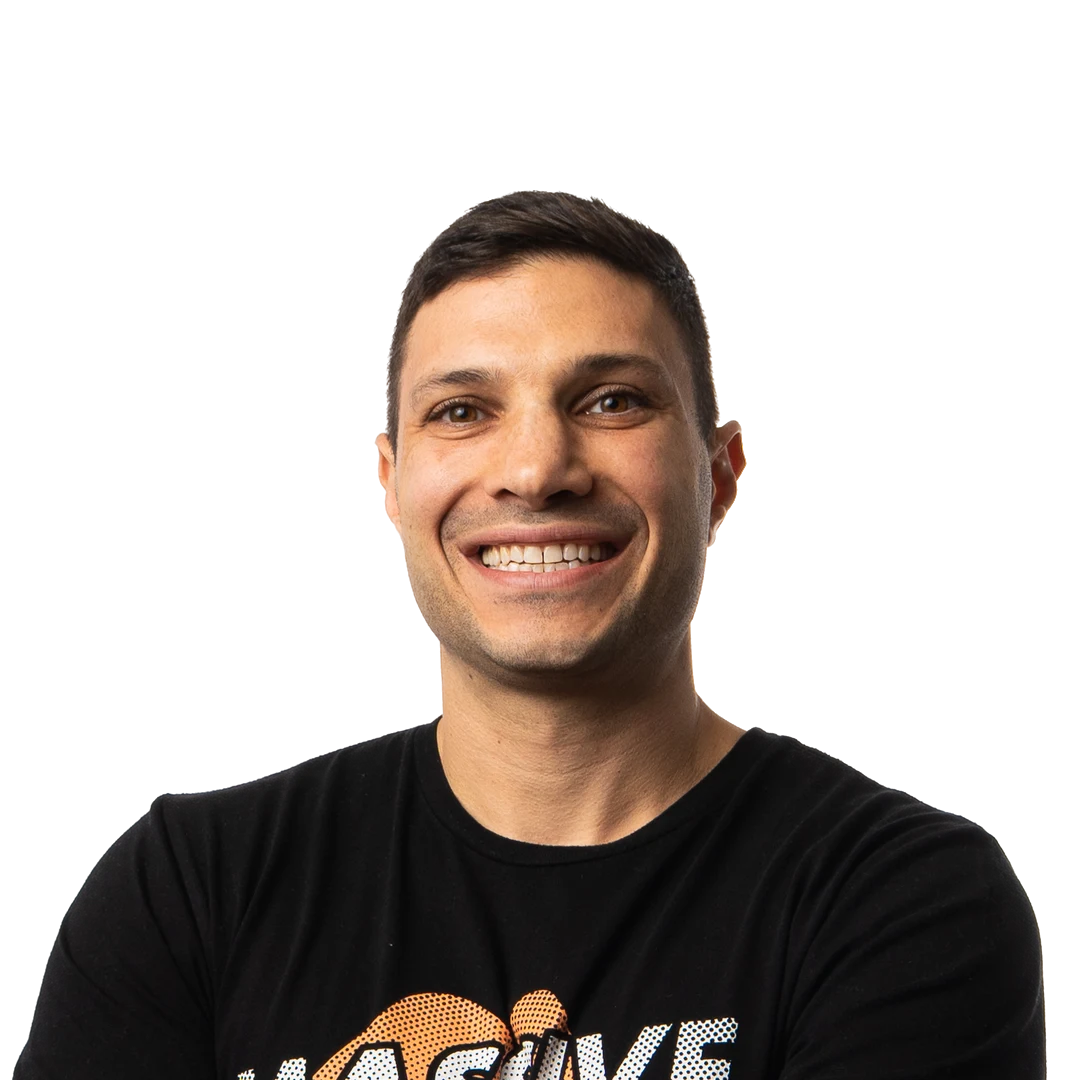
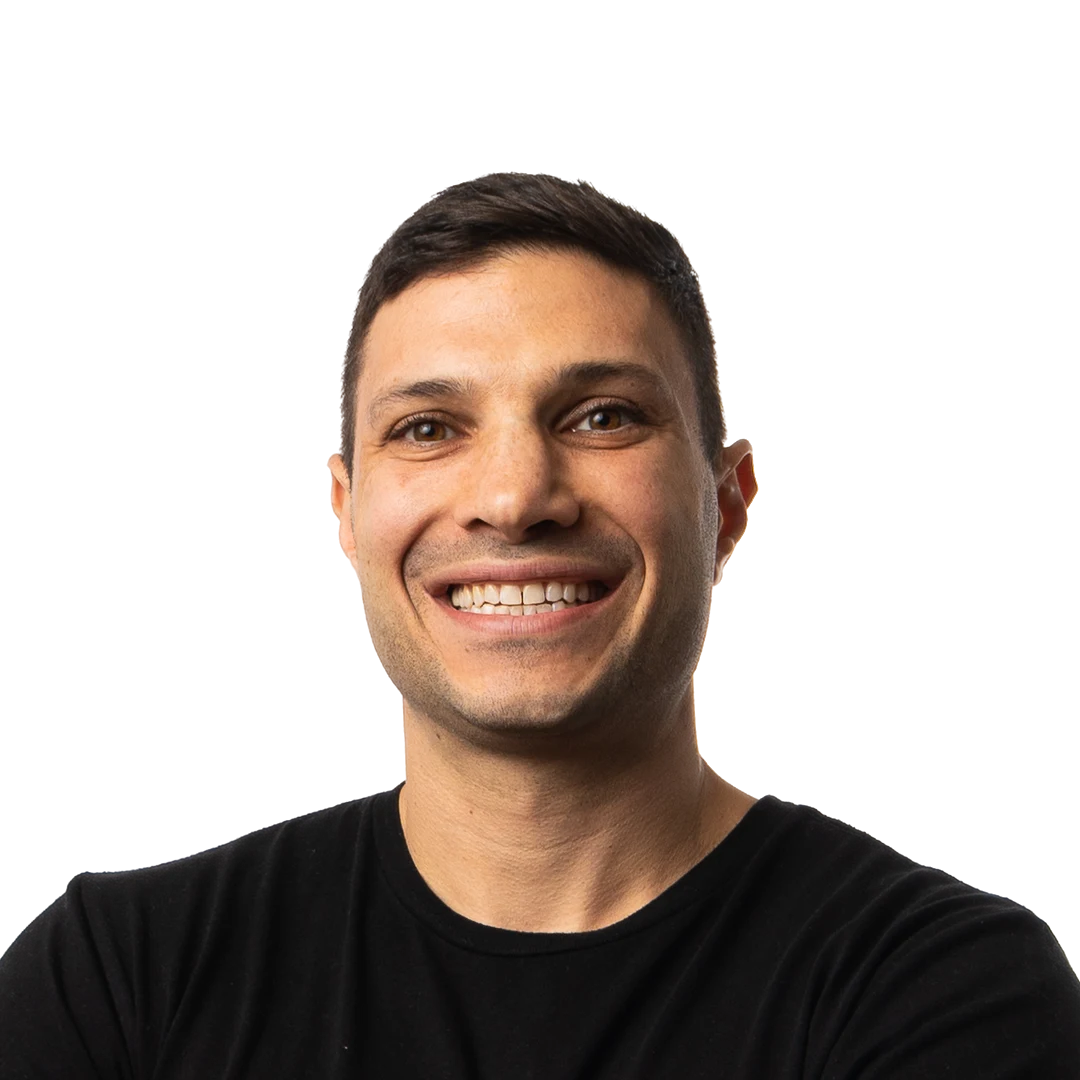
feat(team-photo): new photos of Jamie and Dima, Jason Grad framed larger
Jamie: a real studio photo (B__T0413, seated in the tee), the better
photo in originals/profiles/, in place of the generated pick. Framed 7%
to the right (NUDGE): the head tilts and the hair falls to the left.

Dima: a front-on photo, too small and cut too close to the collar for
the tab's framing, so it became the new face reference instead
(originals/team/dima-tymoshchenko.jpg; the first one is now -old.png)
and take 2 of the studio portrait, picked in photos.md. The look notes
follow it: a hairline receding at the temples, the beard fullest along
the jaw.

Jason Grad: a head as tall as Jason Gellman's and Faustas's, and
centred, through a new scale (s) in NUDGE.

Changed region(s): [[0.0, 0.1528, 1.0, 1.0], [0.2139, 0.9167, 0.7028, 1.0]]

diff --git a/content/team-shoot/people/dima-tymoshchenko.md b/content/team-shoot/people/dima-tymoshchenko.md
@@ -3,9 +3,9 @@ title: Dima Tymoshchenko
 kind: person
 status: draft
 short: Dima Tymoshchenko
-look: "Dima Tymoshchenko, at Massive: in their early thirties, fair skin; short light-brown hair, clipped close at the sides and a little longer on top, with a slightly high hairline; a short, trimmed light-brown beard along the jaw and chin, sparse on the cheeks, with a thin moustache; blue-grey eyes, a broad face and a relaxed, slightly lopsided closed-mouth smile; an average build."
+look: "Dima Tymoshchenko, at Massive: in their early thirties, fair skin; short light-brown hair, clipped very close at the sides and a little longer on top, with a high hairline receding a little at the temples; a short, trimmed light-brown beard, fullest along the jaw and chin and lighter on the cheeks, with a moustache; blue-grey eyes, a broad face and a relaxed, slightly lopsided closed-mouth smile; an average build."
 refs:
-  - { file: dima-tymoshchenko-face.webp, use: "Dima's face, hair and beard, turned a little to the side, the only reference for the likeness; ignore the knitted cardigan and the room behind" }
+  - { file: dima-tymoshchenko-face.webp, use: "Dima's face, hair and beard from the front, the only reference for the likeness; ignore the wall behind" }
 ---
 
-Missed the team shoot. Photo sent in chat on 2026-11-19 (512 px, seated indoors, in a beige cardigan over a white T-shirt), kept as `originals/team/dima-tymoshchenko.png`, cropped above the collar. Not on the landing site's roster; the name is José's.
+Missed the team shoot. Photo sent on 2026-11-23, kept as `originals/team/dima-tymoshchenko.jpg` (472 × 709, square to the camera against a white wall, in a black T-shirt), cropped above the collar. It replaces the first photo, `originals/team/dima-tymoshchenko-old.png` (512 px, seated indoors, in a beige cardigan over a white T-shirt), which take 1 was made from. Not on the landing site's roster; the name is José's.

diff --git a/content/team-shoot/photos.md b/content/team-shoot/photos.md
@@ -104,7 +104,8 @@ Natural, relaxed, confident expressions, looking into the lens. True-to-life ski
   Image: studio-tatsiana-matlash.webp
 - [x] **Dima Tymoshchenko:** On the stool, hands clasped
   Prompt: A vertical studio portrait of Dima Tymoshchenko from the team photoshoot, against the seamless white backdrop, in the black Massive T-shirt and dark blue jeans. Dima sits on the black adjustable stool, leaning forward a little, forearms on the thighs and hands loosely clasped between the knees, with a relaxed, slightly lopsided closed-mouth smile, looking straight into the lens. Framed from well above the head down to just below the knees, the stool's column showing between the legs.
-  Image: studio-dima-tymoshchenko.webp
+  Image: studio-dima-tymoshchenko-take-2.webp
+  Takes: studio-dima-tymoshchenko.webp, studio-dima-tymoshchenko-take-2.webp
 - [x] **Mohie Eddine Lakhdar:** On the stool, hands on knees
   Prompt: A vertical studio portrait of Mohie Eddine Lakhdar from the team photoshoot, against the seamless white backdrop, in the black Massive T-shirt and black trousers. Mohie sits on the black adjustable stool, hands resting on the knees, with a calm, composed expression and a slight smile, looking straight into the lens. Framed from well above the head down to just below the knees, the stool's column showing between the legs.
   Image: studio-mohie-eddine-lakhdar.webp
